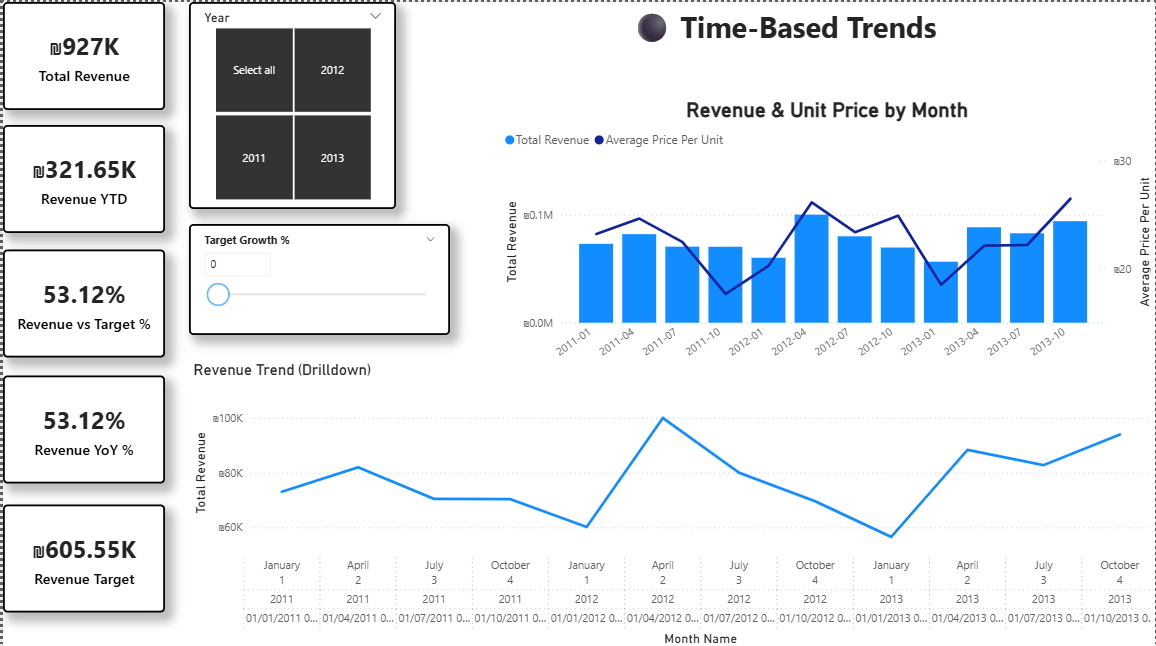
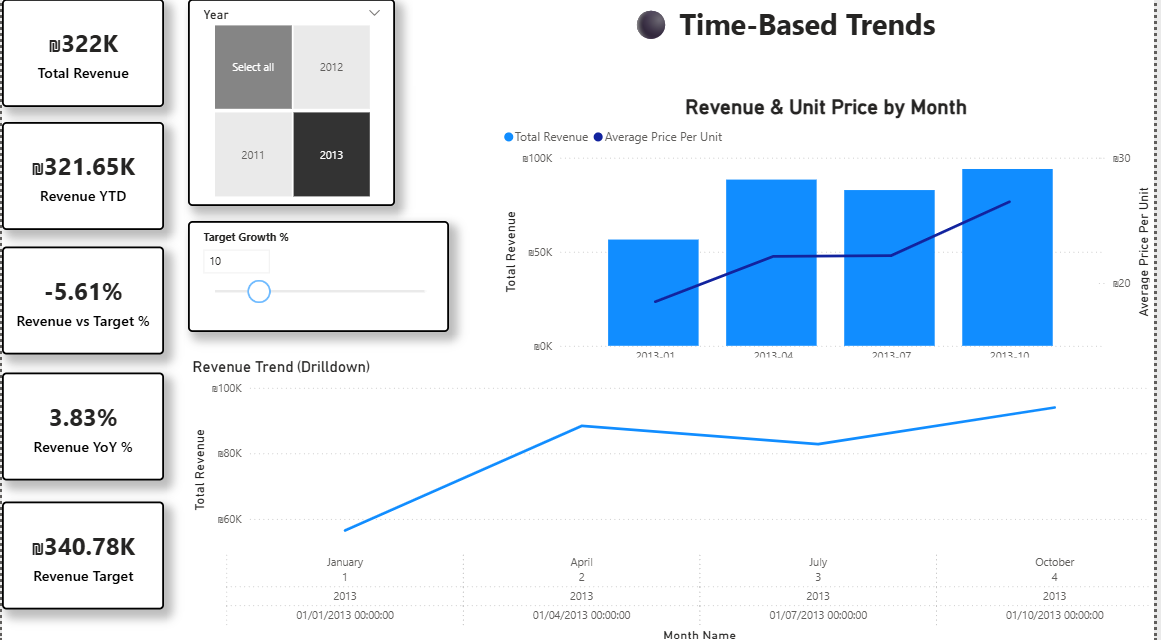
Update Time-Based Trends screenshot and 2013 target insight
Claude-Session: https://claude.ai/code/session_014fytPTd17g6HrUFopbDwJK

diff --git a/README.md b/README.md
@@ -88,7 +88,7 @@ The report has four main pages plus two tooltip pages:
 1. **Revenue concentration** — **Life Insurance** generates ₪594K, about **64% of total revenue**, and the top markets are **India and Italy**. This creates exposure to regulatory or market changes in these countries → diversify revenue sources.
 2. **Growth is driven by pricing, not just volume** — average price per unit improves consistently, especially in 2013, meaning more value is captured from each customer.
 3. **Distributors drive the business** — distributors generate **74.7%** of revenue vs. 25.3% from end-users, so losing a few large distributors would have an outsized impact.
-4. **Targets need recalibration** — there is a persistent gap between actual revenue and the Revenue Target, even when targets are met. Targets should be based on current growth trends rather than historical data only.
+4. **2013 grew, but missed the growth target** — revenue grew **3.8% YoY** (₪321.7K vs ₪309.8K in 2012), while a +10% growth target (₪340.8K) was missed by **5.6%**. Targets should be based on current growth trends rather than historical data only (the *Target Growth %* What-If parameter lets you test different scenarios).
 
 ---
 
